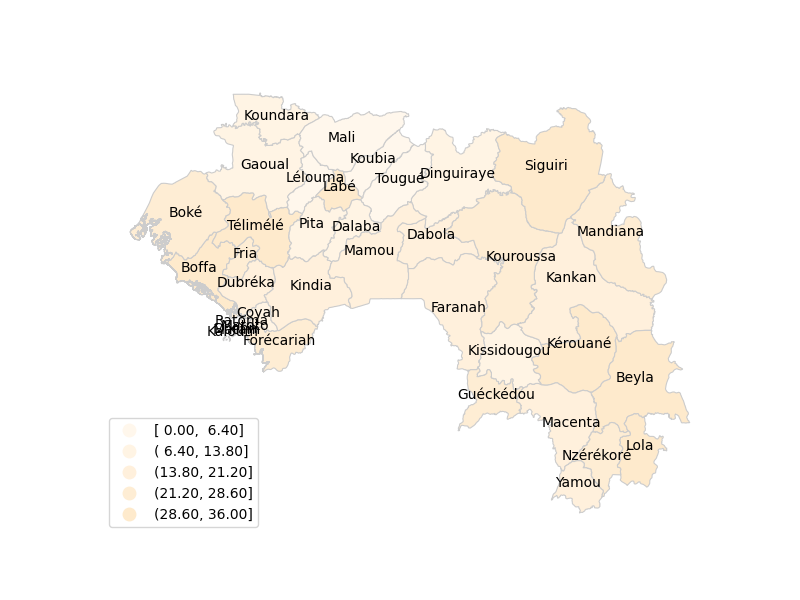
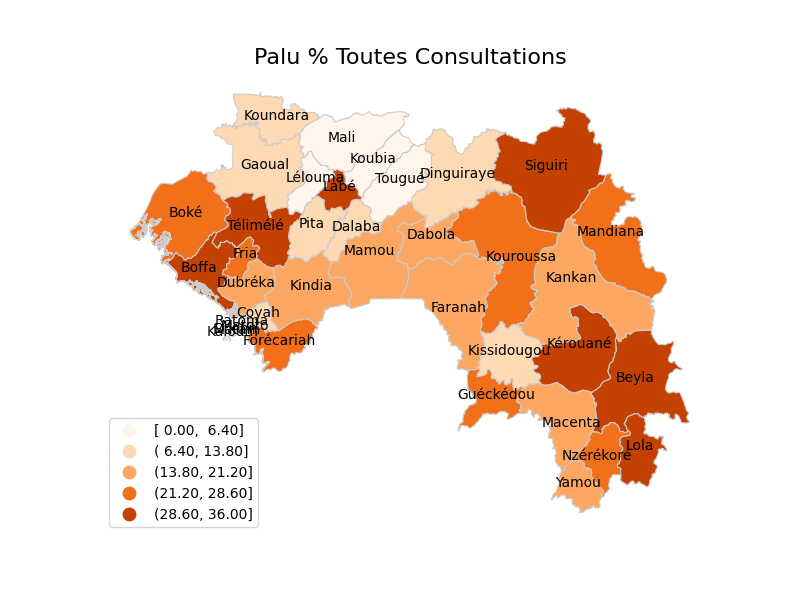
adjusted the vmax

Changed region(s): [[0.1562, 0.15, 0.875, 0.87], [0.3125, 0.06, 0.7188, 0.12], [0.1562, 0.72, 0.1875, 0.87]]

diff --git a/app.py b/app.py
@@ -182,7 +182,6 @@ def makemap(variable):
 
     pivot_table_df = pd.DataFrame(new_json["rows"], columns=columns)
 
-
     # join the geodataframe with the csv dataframe
     merged = df.merge(pivot_table_df, how='left', left_on="ORG_CODE", right_on="Organisation unit code")
 
@@ -194,12 +193,8 @@ def makemap(variable):
 
     # remove the axis
     ax.axis('off')
+    ax.set_title(variable, fontdict={'fontsize': '16', 'fontweight': '8'})
     ax.legend()
-
-    #ax.set_title(variable, fontdict={'fontsize': '16', 'fontweight': '8'})
-
-    leg = ax.get_legend()
-    leg.set_bbox_to_anchor((0., 0., 0.2, 0.2))
 
     # Add Labels
     merged['coords'] = merged['geometry'].apply(lambda x: x.representative_point().coords[:])
@@ -209,7 +204,7 @@ def makemap(variable):
     for idx, row in merged.iterrows():
         plt.annotate(text=row['NAME_2'], xy=row['coords'], horizontalalignment='center')
 
-    merged.plot(column=variable, cmap='OrRd', linewidth=0.8, ax=ax, edgecolor='0.8', legend=True, scheme='quantiles', legend_kwds={'loc': 'lower left'})
+    merged.plot(column=variable, cmap='Oranges', linewidth=0.8, ax=ax, edgecolor='0.8', legend=True, scheme='quantiles', legend_kwds={'loc': 'lower left'}, vmax=5)
 
     canvas = FigureCanvasAgg(fig)
     output = io.BytesIO()
